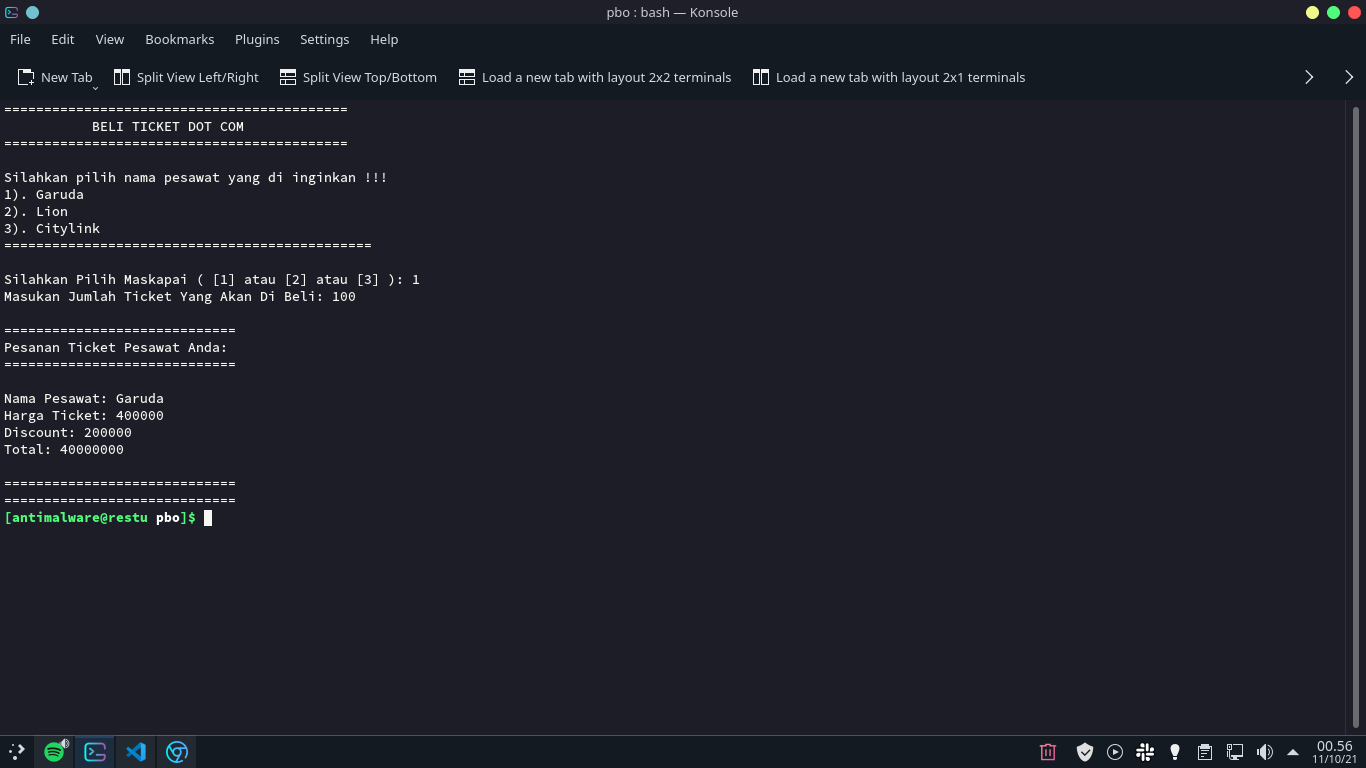
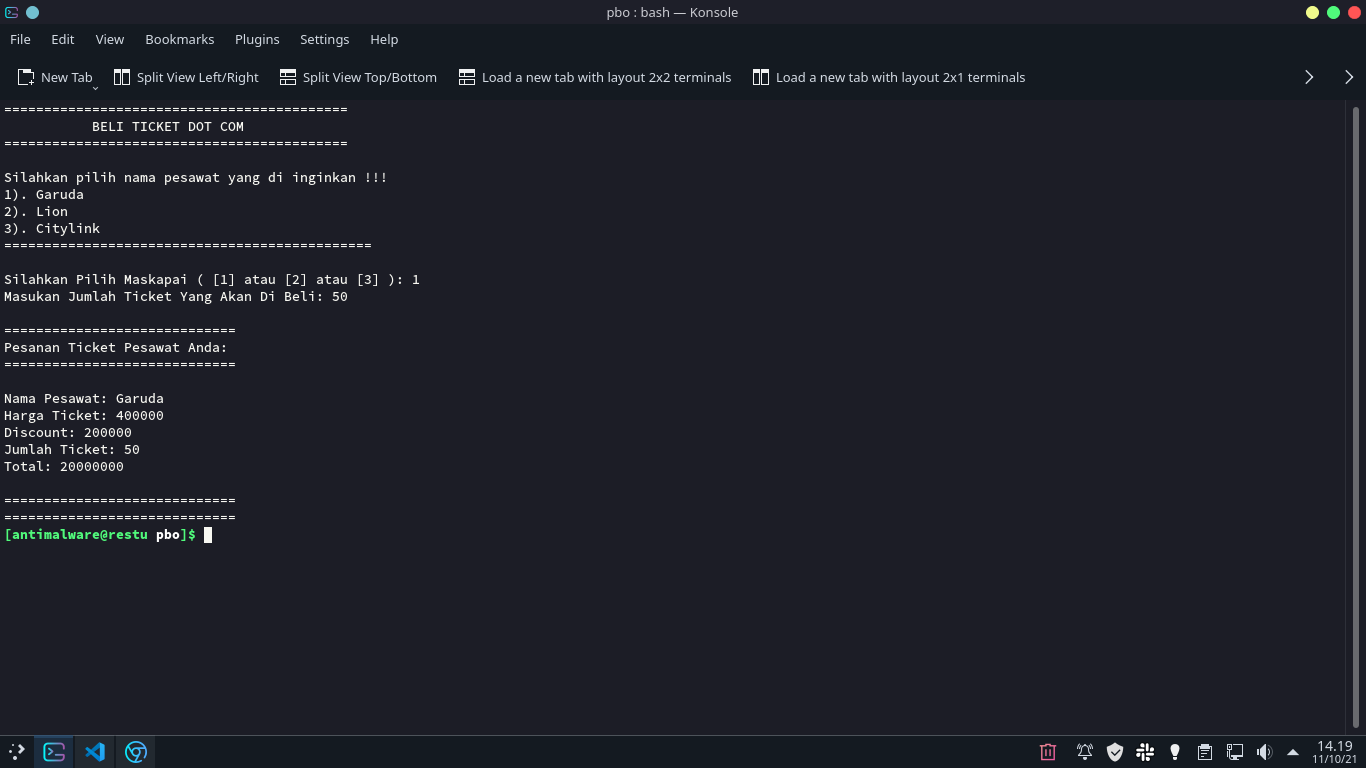
publish files

diff --git a/toko/main.go b/toko/main.go
@@ -1,0 +1,98 @@
+package main
+
+import (
+	"bufio"
+	"fmt"
+	"os"
+	"os/exec"
+	"strconv"
+
+	"pborebuild/toko/repository"
+	"pborebuild/toko/schema"
+)
+
+func main() {
+	Screen()
+
+	firstweek := bufio.NewScanner(os.Stdin)
+	lastweek := bufio.NewScanner(os.Stdin)
+
+	fmt.Printf("Silahkan input penjualan baju gamis minggu pertama: ")
+	firstweek.Scan()
+	firstweekOutput, _ := strconv.ParseUint(firstweek.Text(), 10, 64)
+
+	fmt.Printf("Silahkan input penjualan baju gamis sampai minggu terakhir: ")
+	lastweek.Scan()
+	lastweekOutput, _ := strconv.ParseUint(lastweek.Text(), 10, 64)
+
+	var input schema.SchemaToko
+	input.FirstWeek = firstweekOutput
+	input.LastWeek = lastweekOutput
+	input.TotalPenjualan = input.FirstWeek + input.LastWeek
+	input.Jual = 150000
+	input.Modal = 80000
+	input.Keuntungan = 70000
+
+	Choice(&input)
+}
+
+func Screen() {
+	cmd := exec.Command("clear")
+	cmd.Stdout = os.Stdout
+	cmd.Run()
+
+	fmt.Println("=============== PERHITUNGAN =================")
+	fmt.Println("Penjualan Baju Gamis (Selama Ramadhan 1442 H)")
+	fmt.Println("=============== GAMIS FASHION ===============")
+	fmt.Printf("\n")
+}
+
+func Choice(input *schema.SchemaToko) {
+
+	if input.TotalPenjualan == 100 {
+
+		data := repository.NewToko(input)
+
+		fmt.Printf("\n")
+		fmt.Println("=================================================")
+		fmt.Println("Keuntungan Anda Mencapai Target Penjualan Sebulan")
+		fmt.Println("=================================================")
+		fmt.Printf("\n")
+		fmt.Printf("Modal: %d", data.Modal)
+		fmt.Printf("\n")
+		fmt.Printf("Keuntungan: %d", data.Keuntungan)
+		fmt.Printf("\n")
+		fmt.Printf("Total Penjualan: %d", data.TotalPenjualan)
+		fmt.Printf("\n")
+	} else if input.TotalPenjualan < 100 {
+
+		data := repository.NewToko(input)
+
+		fmt.Printf("\n")
+		fmt.Println("=======================================================")
+		fmt.Println("Keuntungan Anda Tidak Mencapai Target Penjualan Sebulan")
+		fmt.Println("=======================================================")
+		fmt.Printf("\n")
+		fmt.Printf("Modal: %d", data.Modal)
+		fmt.Printf("\n")
+		fmt.Printf("Keuntungan: %d", data.Keuntungan)
+		fmt.Printf("\n")
+		fmt.Printf("Total Penjualan: %d", data.TotalPenjualan)
+		fmt.Printf("\n")
+	} else {
+
+		data := repository.NewToko(input)
+
+		fmt.Printf("\n")
+		fmt.Println("=================================================")
+		fmt.Println("Anda Melebihi Pencapaian Target Penjualan Sebulan")
+		fmt.Println("=================================================")
+		fmt.Printf("\n")
+		fmt.Printf("Modal: %d", data.Modal)
+		fmt.Printf("\n")
+		fmt.Printf("Keuntungan: %d", data.Keuntungan)
+		fmt.Printf("\n")
+		fmt.Printf("Total Penjualan: %d", data.TotalPenjualan)
+		fmt.Printf("\n")
+	}
+}

diff --git a/ticket/main.go b/ticket/main.go
@@ -109,6 +109,8 @@ func Garuda(input *schema.SchemaTicket) {
 		fmt.Printf("\n")
 		fmt.Printf("Discount: %d", data.Discount)
 		fmt.Printf("\n")
+		fmt.Printf("Jumlah Ticket: %d", input.TicketCount)
+		fmt.Printf("\n")
 		fmt.Printf("Total: %d", data.Total)
 		fmt.Printf("\n")
 	} else {
@@ -120,6 +122,8 @@ func Garuda(input *schema.SchemaTicket) {
 		fmt.Printf("Nama Pesawat: %s", data.Pesawat)
 		fmt.Printf("\n")
 		fmt.Printf("Harga Ticket: %d", data.Harga)
+		fmt.Printf("\n")
+		fmt.Printf("Jumlah Ticket: %d", input.TicketCount)
 		fmt.Printf("\n")
 		fmt.Printf("Total: %d", data.Total)
 		fmt.Printf("\n")
@@ -142,6 +146,8 @@ func Lion(input *schema.SchemaTicket) {
 		fmt.Printf("\n")
 		fmt.Printf("Discount: %d", data.Discount)
 		fmt.Printf("\n")
+		fmt.Printf("Jumlah Ticket: %d", input.TicketCount)
+		fmt.Printf("\n")
 		fmt.Printf("Total: %d", data.Total)
 		fmt.Printf("\n")
 	} else {
@@ -153,6 +159,8 @@ func Lion(input *schema.SchemaTicket) {
 		fmt.Printf("Nama Pesawat: %s", data.Pesawat)
 		fmt.Printf("\n")
 		fmt.Printf("Harga Ticket: %d", data.Harga)
+		fmt.Printf("\n")
+		fmt.Printf("Jumlah Ticket: %d", input.TicketCount)
 		fmt.Printf("\n")
 		fmt.Printf("Total: %d", data.Total)
 		fmt.Printf("\n")
@@ -174,6 +182,8 @@ func Citylink(input *schema.SchemaTicket) {
 		fmt.Printf("\n")
 		fmt.Printf("Discount: %d", data.Discount)
 		fmt.Printf("\n")
+		fmt.Printf("Jumlah Ticket: %d", input.TicketCount)
+		fmt.Printf("\n")
 		fmt.Printf("Total: %d", data.Total)
 		fmt.Printf("\n")
 	} else {
@@ -185,6 +195,8 @@ func Citylink(input *schema.SchemaTicket) {
 		fmt.Printf("Nama Pesawat: %s", data.Pesawat)
 		fmt.Printf("\n")
 		fmt.Printf("Harga Ticket: %d", data.Harga)
+		fmt.Printf("\n")
+		fmt.Printf("Jumlah Ticket: %d", input.TicketCount)
 		fmt.Printf("\n")
 		fmt.Printf("Total: %d", data.Total)
 		fmt.Printf("\n")

diff --git a/toko/repository/repository.go b/toko/repository/repository.go
@@ -1,0 +1,29 @@
+package repository
+
+import (
+	"pborebuild/toko/entity"
+	"pborebuild/toko/schema"
+)
+
+type Toko interface {
+	BiayaToko(input *schema.SchemaToko) *entity.EntityToko
+}
+
+type BiayaToko struct {
+	toko Toko
+}
+
+func (r *BiayaToko) BiayaToko(input *schema.SchemaToko) *entity.EntityToko {
+	var toko entity.EntityToko
+
+	toko.Modal = input.Modal + input.TotalPenjualan
+	toko.Keuntungan = (input.Jual - input.Modal) * input.TotalPenjualan
+	toko.TotalPenjualan = input.FirstWeek + input.LastWeek
+
+	return &toko
+}
+
+func NewToko(input *schema.SchemaToko) *entity.EntityToko {
+	var toko BiayaToko
+	return toko.BiayaToko(input)
+}

diff --git a/sekolah/main.go b/sekolah/main.go
@@ -64,10 +64,10 @@ func Input() {
 	fmt.Printf("[Raport] - pilih 1 jika ya, pilih 2 jika tidak: ")
 	raport.Scan()
 
-	pegembanganOutput, _ := strconv.ParseUint(pegembangan.Text(), 8, 64)
-	sppOuput, _ := strconv.ParseUint(spp.Text(), 8, 64)
-	kegiatanOutput, _ := strconv.ParseUint(kegiatan.Text(), 8, 64)
-	raportOuput, _ := strconv.ParseUint(raport.Text(), 8, 64)
+	pegembanganOutput, _ := strconv.ParseUint(pegembangan.Text(), 10, 64)
+	sppOuput, _ := strconv.ParseUint(spp.Text(), 10, 64)
+	kegiatanOutput, _ := strconv.ParseUint(kegiatan.Text(), 10, 64)
+	raportOuput, _ := strconv.ParseUint(raport.Text(), 10, 64)
 
 	fmt.Printf("\n")
 

diff --git a/sekolah/repository/repository.go b/sekolah/repository/repository.go
@@ -15,6 +15,7 @@ type BiayaSekolah struct {
 
 func (s *BiayaSekolah) BiayaSekolah(input *schema.SchemaSekolah) *entity.EntitySekolah {
 	var entity entity.EntitySekolah
+
 	entity.UangPengembangan = input.UangPengembangan
 	entity.UangSpp = input.UangSpp
 	entity.UangRaport = input.UangRaport

diff --git a/toko/entity/entity.go b/toko/entity/entity.go
@@ -1,0 +1,5 @@
+package entity
+
+type EntityToko struct {
+	FirstWeek, LastWeek, TotalPenjualan, Jual, Modal, Keuntungan uint64
+}

diff --git a/toko/schema/schema.go b/toko/schema/schema.go
@@ -1,0 +1,5 @@
+package schema
+
+type SchemaToko struct {
+	FirstWeek, LastWeek, TotalPenjualan, Jual, Modal, Keuntungan uint64
+}

diff --git a/README.md b/README.md
@@ -10,14 +10,18 @@ $ make start name=f<app name> || go run <app name>/main.go
 
 ## Implementation Case
 
-- Toko (Besok Ya)
+- Toko
 - Ticket
 - Sekolah
 
 ## Ticket App Scanner
 
-<img src="./images/ticket.png">
+<img src="./images/toko.png"/>
+
+## Ticket App Scanner
+
+<img src="./images/ticket.png"/>
 
 ## Sekolah App Scanner
 
-<img src="./images/ticket.png">
+<img src="./images/ticket.png"/>
